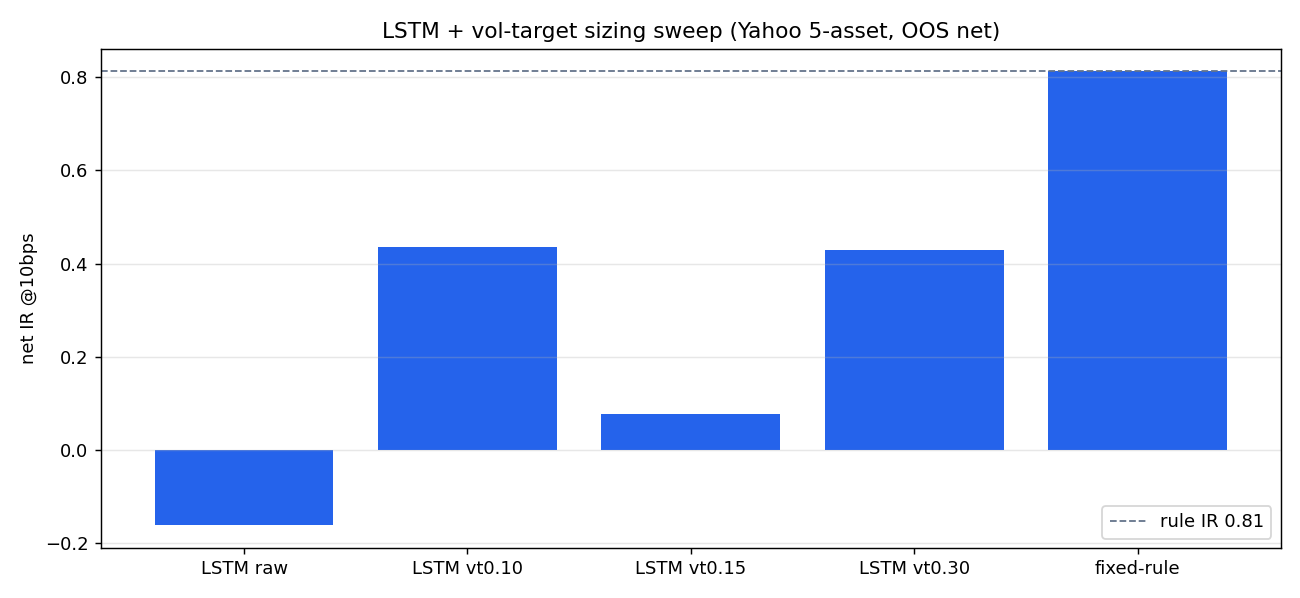
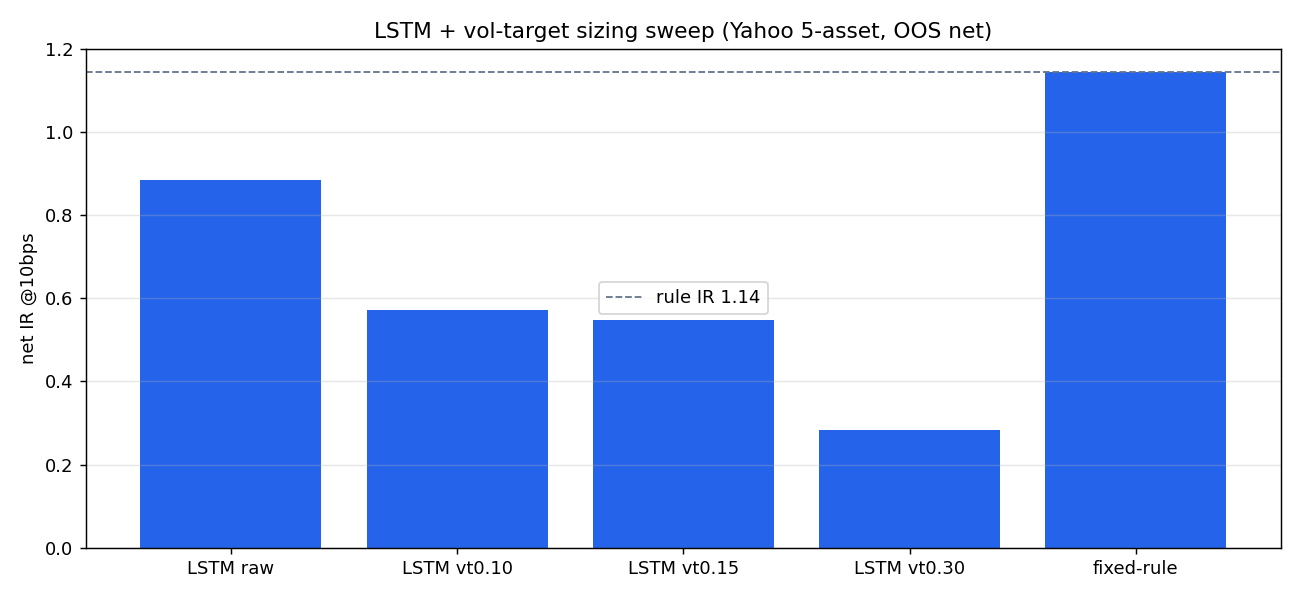
feat(paper5): LSTM sizing sweep on combined-18 (basket arg) — vol-target sizing de-risks but kills return (8.7%->1%, IR 0.88->0.55); LSTM has its own learned sizing; rule dominates (IR 1.14, half the drawdown). LSTM levers exhausted.

diff --git a/paper5/code/run_lstm_sizing.py b/paper5/code/run_lstm_sizing.py
@@ -37,14 +37,15 @@ def _metrics(POS, fwd, idx, band, n_trials):
             "dsr": metrics.deflated_sharpe(net, n_trials, PPY)}
 
 
-def main():
-    df = combined_data.fetch_combined_daily()[FIVE].dropna(how="any")
+def main(basket="five"):
+    full = combined_data.fetch_combined_daily()   # already aligned (ffill + dropna how=all), ~2947 bars
+    df = full if basket == "all" else full[FIVE].dropna(how="any")
     X, fwd, dates_ms = crypto_features.build(df)
     T = X.shape[1]
     vol = (df.pct_change().rolling(30).std() * np.sqrt(PPY)).shift(1).to_numpy().T
     vol = np.nan_to_num(vol, nan=1.0)
     folds = train_eval.make_folds(T, warm=252, first_train=1500, step=252)
-    print(f"[data] {len(FIVE)} assets {FIVE}, {T} bars {df.index[0].date()}..{df.index[-1].date()}, folds={len(folds)}")
+    print(f"[data] {df.shape[1]} assets, {T} bars {df.index[0].date()}..{df.index[-1].date()}, folds={len(folds)}")
 
     POS_l, _, idx = train_eval.nested_walkforward(models.make_lstm, models.LSTM_GRID, X, fwd, folds,
                                                   warm=252, epochs=300)
@@ -72,4 +73,4 @@ def main():
 
 
 if __name__ == "__main__":
-    main()
+    main(sys.argv[1] if len(sys.argv) > 1 else "five")
